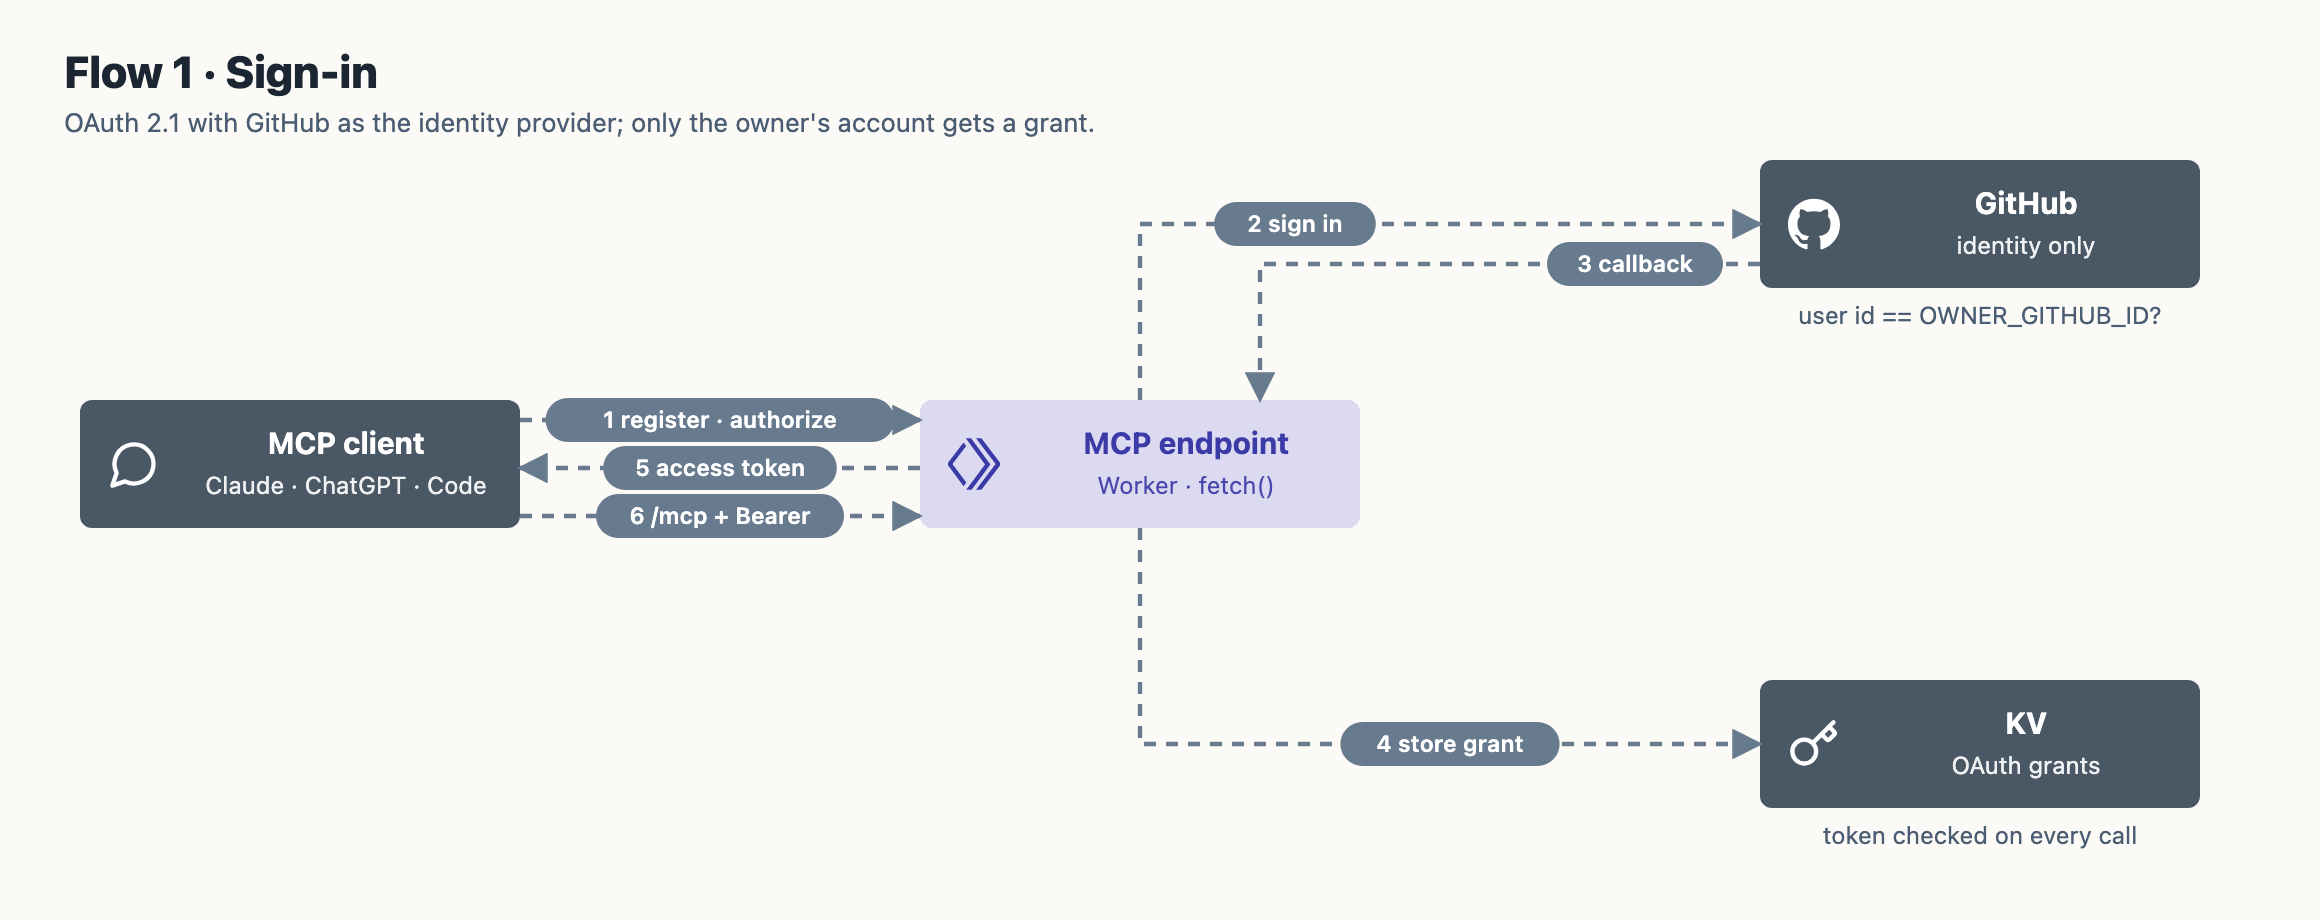
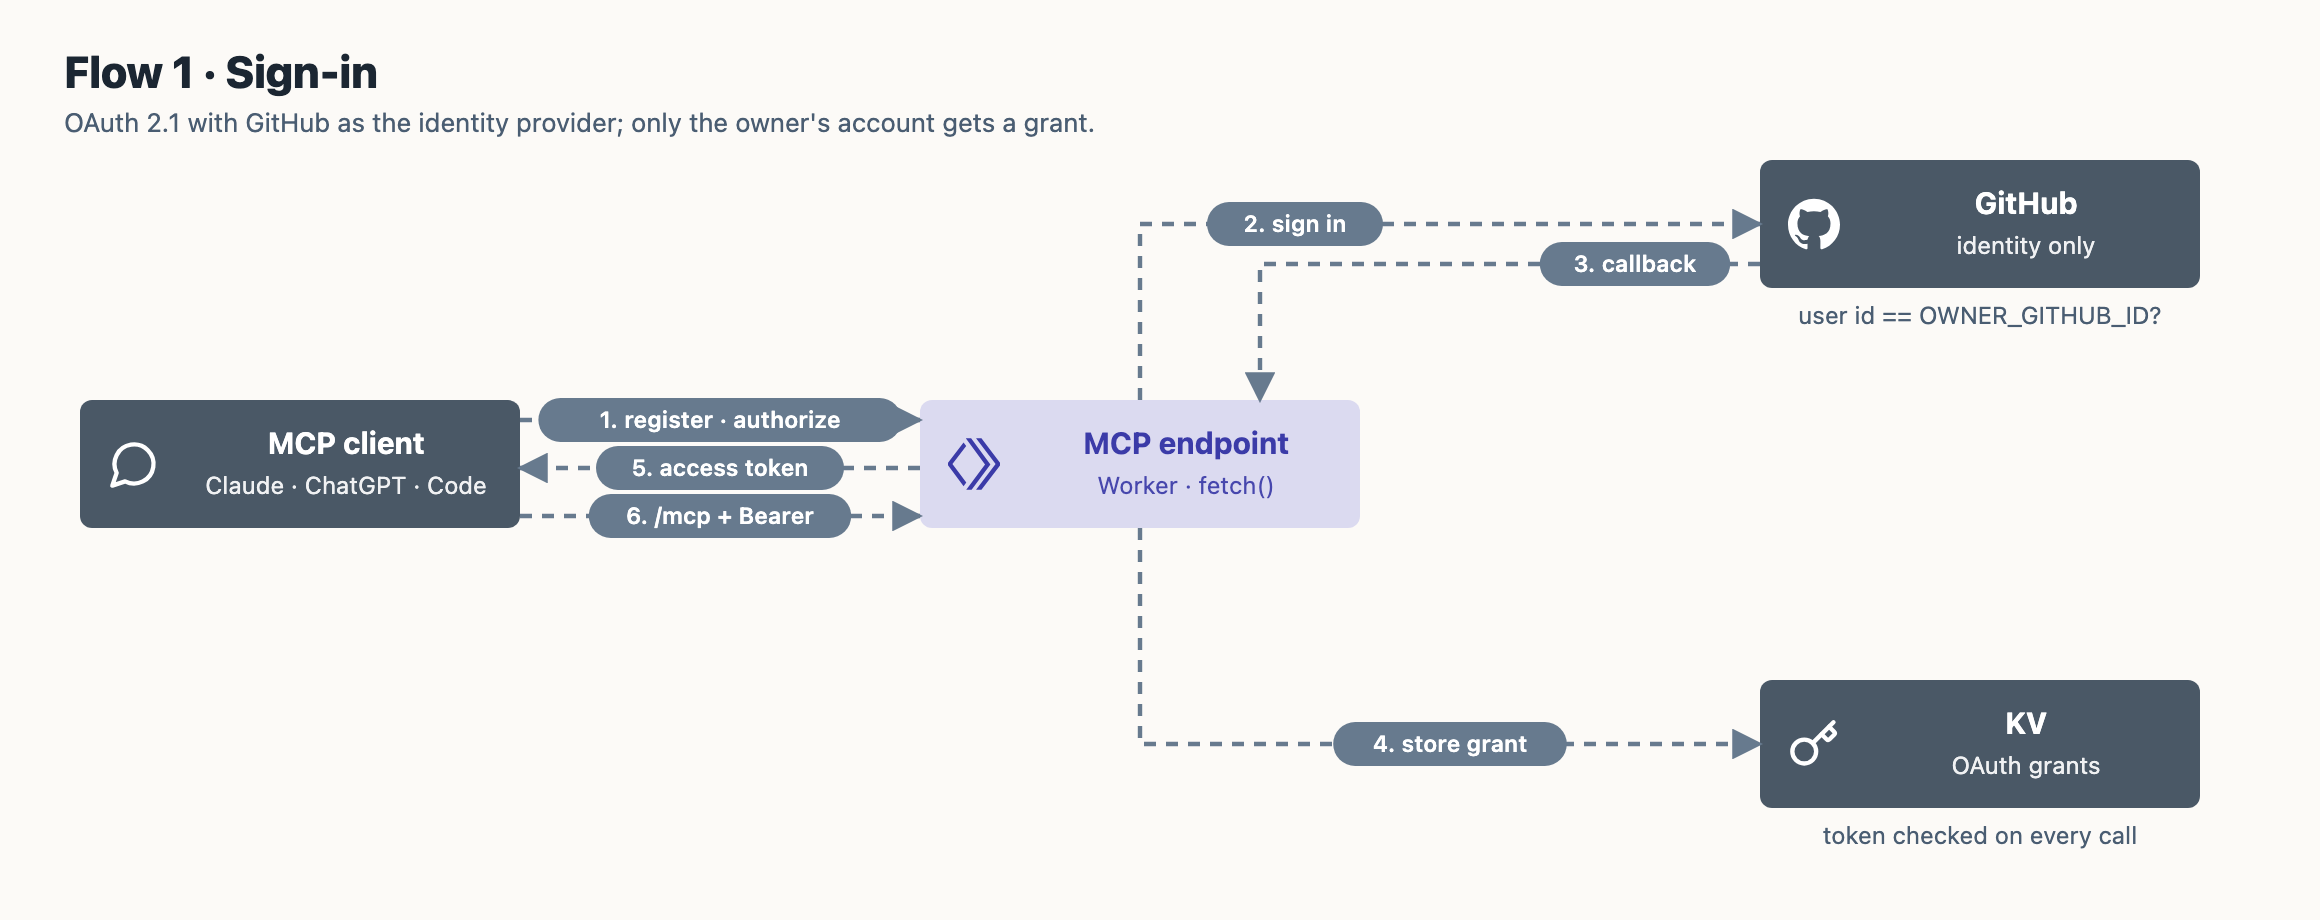
Architecture: '1. step' numbering on the flow maps
Claude-Session: https://claude.ai/code/session_0171UdtAm1pRxwuhTFhKDhrM

diff --git a/docs/architecture/draw_flows.py b/docs/architecture/draw_flows.py
@@ -17,12 +17,12 @@ save("1-sign-in", 1160, 460, "Flow 1 · Sign-in", "OAuth 2.1 with GitHub as the 
     client(40, 200), endpoint(460, 200),
     box(880, 80, "GitHub", "identity only", "slate", "user id == OWNER_GITHUB_ID?", icons=("github",)),
     box(880, 340, "KV", "OAuth grants", "slate", "token checked on every call", icons=("key",)),
-    arrow([(260, 210), (460, 210)], "1 register · authorize", flow="auth"),
-    arrow([(570, 200), (570, 112), (880, 112)], "2 sign in", at=0.25, flow="auth"),
-    arrow([(880, 132), (630, 132), (630, 200)], "3 callback", at=0.25, flow="auth"),
-    arrow([(570, 264), (570, 372), (880, 372)], "4 store grant", flow="auth"),
-    arrow([(460, 234), (260, 234)], "5 access token", flow="auth"),
-    arrow([(260, 258), (460, 258)], "6 /mcp + Bearer", flow="auth"),
+    arrow([(260, 210), (460, 210)], "1. register · authorize", flow="auth"),
+    arrow([(570, 200), (570, 112), (880, 112)], "2. sign in", at=0.25, flow="auth"),
+    arrow([(880, 132), (630, 132), (630, 200)], "3. callback", at=0.25, flow="auth"),
+    arrow([(570, 264), (570, 372), (880, 372)], "4. store grant", flow="auth"),
+    arrow([(460, 234), (260, 234)], "5. access token", flow="auth"),
+    arrow([(260, 258), (460, 258)], "6. /mcp + Bearer", flow="auth"),
 ])
 
 # 2. write
@@ -31,21 +31,21 @@ save("2-write", 1560, 400, "Flow 2 · Write a note", "One Durable Object per rep
     box(880, 110, "RepoWriter", "Durable Object · mutex", "indigo", "stale expected_version → conflict", icons=("lock",), kind="part"),
     box(1300, 110, "Artifacts", "Git · source of truth", "green", "branch moved → re-apply (3 tries)", icons=("branch",)),
     box(880, 290, "Queue", "index-jobs", "orange", icons=("queue",)),
-    arrow([(260, 126), (460, 126)], "1 write_note", flow="write"),
-    arrow([(680, 142), (880, 142)], "2 one at a time", flow="write"),
-    arrow([(1100, 142), (1300, 142)], "3 commit + push", flow="write"),
-    arrow([(570, 174), (570, 322), (880, 322)], "4 enqueue path", flow="index"),
-    arrow([(460, 160), (260, 160)], "5 ok · version", flow="write"),
+    arrow([(260, 126), (460, 126)], "1. write_note", flow="write"),
+    arrow([(680, 142), (880, 142)], "2. one at a time", flow="write"),
+    arrow([(1100, 142), (1300, 142)], "3. commit + push", flow="write"),
+    arrow([(570, 174), (570, 322), (880, 322)], "4. enqueue path", flow="index"),
+    arrow([(460, 160), (260, 160)], "5. ok · version", flow="write"),
 ])
 
 # 4. read
 save("4-read", 1140, 340, "Flow 4 · Read a note", "Straight from Git; the reply carries the version for a later write.", [
     client(40, 160), endpoint(460, 160),
     box(880, 160, "Artifacts", "Git · source of truth", "green", icons=("branch",)),
-    arrow([(260, 176), (460, 176)], "1 read_note", flow="read"),
-    arrow([(680, 176), (880, 176)], "2 read file", flow="read"),
-    arrow([(880, 208), (680, 208)], "3 content", flow="read"),
-    arrow([(460, 208), (260, 208)], "4 text + version", flow="read"),
+    arrow([(260, 176), (460, 176)], "1. read_note", flow="read"),
+    arrow([(680, 176), (880, 176)], "2. read file", flow="read"),
+    arrow([(880, 208), (680, 208)], "3. content", flow="read"),
+    arrow([(460, 208), (260, 208)], "4. text + version", flow="read"),
 ])
 
 # 3. index
@@ -57,12 +57,12 @@ save("3-index", 1640, 440, "Flow 3 · Index in the background", "Two producers i
     box(1380, 60, "D1", "manifest · FTS5 chunks", "red", icons=("database",)),
     box(1380, 200, "Workers AI", "model API · bge-m3", "teal", icons=("sparkles",), kind="api"),
     box(1380, 340, "Vectorize", "semantic index", "teal", icons=("search",)),
-    arrow([(260, 112), (400, 112), (400, 214), (460, 214)], "1 enqueue", flow="index"),
-    arrow([(260, 232), (460, 232)], "1 pushed", flow="index"),
-    arrow([(680, 232), (880, 232)], "2 deliver", flow="index"),
-    arrow([(1100, 232), (1380, 232)], "3 embed chunks", flow="index"),
-    arrow([(1100, 248), (1150, 248), (1150, 372), (1380, 372)], "4 upsert h-seq", flow="index"),
-    arrow([(1100, 216), (1150, 216), (1150, 92), (1380, 92)], "5 manifest + FTS", flow="index"),
+    arrow([(260, 112), (400, 112), (400, 214), (460, 214)], "1. enqueue", flow="index"),
+    arrow([(260, 232), (460, 232)], "1. pushed", flow="index"),
+    arrow([(680, 232), (880, 232)], "2. deliver", flow="index"),
+    arrow([(1100, 232), (1380, 232)], "3. embed chunks", flow="index"),
+    arrow([(1100, 248), (1150, 248), (1150, 372), (1380, 372)], "4. upsert h-seq", flow="index"),
+    arrow([(1100, 216), (1150, 216), (1150, 92), (1380, 92)], "5. manifest + FTS", flow="index"),
 ])
 
 # 6. reconcile
@@ -75,9 +75,9 @@ save("6-reconcile", 1160, 480, "Flow 6 · Reconciliation", "The schedule is a se
     box(880, 184, "D1", "manifest · FTS5 chunks", "red", icons=("database",)),
     box(880, 340, "Queue", "index-jobs", "orange", "missing · changed · orphans · keyword gaps", icons=("queue",)),
     arrow([(260, 216), (460, 216)], "start", flow="index"),
-    arrow([(570, 184), (570, 112), (880, 112)], "1 notes + sha", flow="index"),
-    arrow([(680, 216), (880, 216)], "2 what's indexed", flow="index"),
-    arrow([(570, 248), (570, 372), (880, 372)], "3 diff · 4 enqueue", flow="index"),
+    arrow([(570, 184), (570, 112), (880, 112)], "1. notes + sha", flow="index"),
+    arrow([(680, 216), (880, 216)], "2. what's indexed", flow="index"),
+    arrow([(570, 248), (570, 372), (880, 372)], "3. diff · 4. enqueue", flow="index"),
 ])
 
 # 7. failure
@@ -87,11 +87,11 @@ save("7-failure", 1560, 360, "Flow 7 · A job that keeps failing", "Retries with
     box(880, 100, "DLQ", "index-jobs-dlq", "red", icons=("queue",)),
     box(1300, 100, "DLQ consumer", "Worker · queue()", "indigo", icons=("workers",), kind="part"),
     box(1300, 250, "D1", "alerts table", "red", "nothing reads it yet", icons=("database",)),
-    arrow([(260, 116), (460, 116)], "1 deliver", flow="index"),
-    arrow([(460, 150), (260, 150)], "2 throws", flow="fail"),
-    arrow([(150, 164), (150, 230), (990, 230), (990, 164)], "3 after 5 failures", flow="fail"),
-    arrow([(1100, 132), (1300, 132)], "4 deliver", flow="fail"),
-    arrow([(1410, 164), (1410, 250)], "5 alert row · ack", flow="fail"),
+    arrow([(260, 116), (460, 116)], "1. deliver", flow="index"),
+    arrow([(460, 150), (260, 150)], "2. throws", flow="fail"),
+    arrow([(150, 164), (150, 230), (990, 230), (990, 164)], "3. after 5 failures", flow="fail"),
+    arrow([(1100, 132), (1300, 132)], "4. deliver", flow="fail"),
+    arrow([(1410, 164), (1410, 250)], "5. alert row · ack", flow="fail"),
 ])
 
 # 5. search
@@ -100,10 +100,10 @@ save("5-search", 1560, 380, "Flow 5 · Search", "Keyword and meaning in parallel
     box(880, 80, "D1", "FTS5 · BM25", "red", icons=("database",)),
     box(880, 200, "Workers AI", "model API · bge-m3", "teal", icons=("sparkles",), kind="api"),
     box(1300, 200, "Vectorize", "nearest chunks", "teal", "cosine ≥ 0.30", icons=("search",)),
-    arrow([(260, 216), (460, 216)], "1 search_notes", flow="read"),
-    arrow([(570, 200), (570, 112), (880, 112)], "2a keyword", flow="read"),
-    arrow([(680, 232), (880, 232)], "2b embed query", flow="read"),
-    arrow([(1100, 232), (1300, 232)], "3 query vector", flow="read"),
-    arrow([(460, 250), (260, 250)], "4 ranked notes", flow="read"),
+    arrow([(260, 216), (460, 216)], "1. search_notes", flow="read"),
+    arrow([(570, 200), (570, 112), (880, 112)], "2a. keyword", flow="read"),
+    arrow([(680, 232), (880, 232)], "2b. embed query", flow="read"),
+    arrow([(1100, 232), (1300, 232)], "3. query vector", flow="read"),
+    arrow([(460, 250), (260, 250)], "4. ranked notes", flow="read"),
 ])
 print("flows ok")
